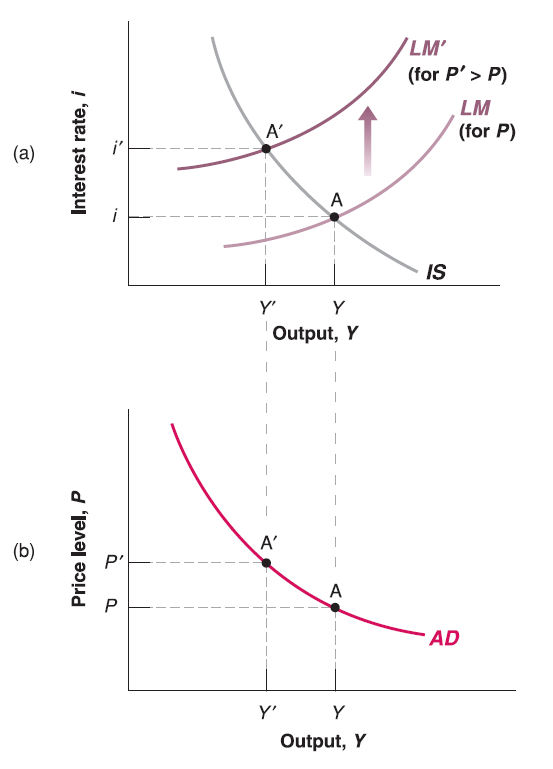
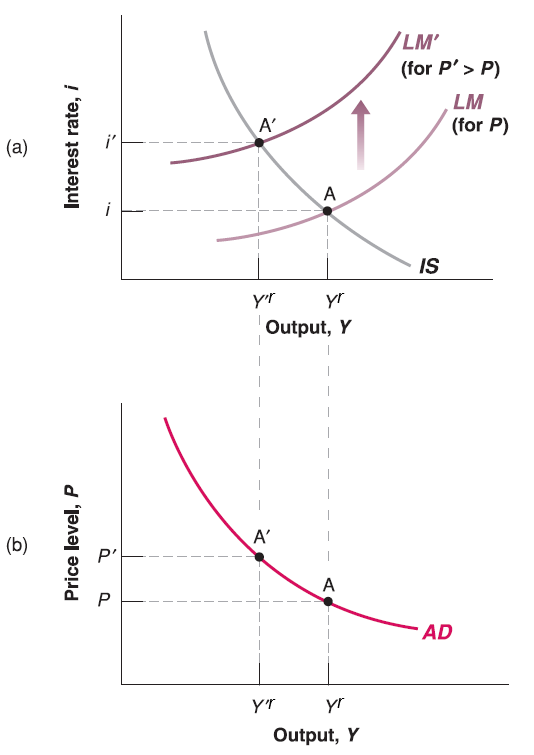
lecture12

diff --git a/lecture12.html b/lecture12.html
@@ -7,7 +7,7 @@
   <meta http-equiv="Content-Style-Type" content="text/css" />
   <meta name="generator" content="pandoc" />
   <meta name="author" content="Mingze Huang" />
-  <meta name="date" content="2021-07-22" />
+  <meta name="date" content="2021-07-23" />
   <title>Lecture 12: Aggregate Demand</title>
   <style type="text/css">
     code{white-space: pre-wrap;}
@@ -28,20 +28,70 @@
   <p class="author">
 Mingze Huang
   </p>
-  <p class="date">2021-07-22</p>
+  <p class="date">2021-07-23</p>
 </div>
 <div id="aggregate-demand" class="slide section level2">
 <h1>Aggregate Demand</h1>
+<p>Recall the policy change effect in IS-LM model, the framework mostly focus on demand side analysis. It enlightens us that we may derive some form of Aggregate Demand (AD) curve from IS-LM model:</p>
 <p><span class="math display">\[
 \begin{cases}
-(1 - c_{1})Y^{r} = c_{0}-c_{1}T+I(i)+G \\
-\frac{M}{P}=Y^{r}\cdot L(i)
+(1 - c_{1})Y^{r} = c_{0}-c_{1}T+I(i)+G &amp; \text{IS relation}\\
+\frac{M}{P}=Y^{r}\cdot L(i) &amp; \text{LM relation}
 \end{cases}
-\]</span></p>
+\]</span> Since we’ve already got Aggregate Supply (AS) curve on price <span class="math inline">\(P\)</span> and output <span class="math inline">\(Y^{r}\)</span>. Now our goal is to make an Aggregate Demand (AD) curve on price <span class="math inline">\(P\)</span> and output <span class="math inline">\(Y^{r}\)</span> to put on the graph.</p>
+<ul>
+<li><p>In IS-LM model, we assume price level <span class="math inline">\(P\)</span> is given and unchanged in the short run. Here we can simply relax our assumption to endogenize price <span class="math inline">\(P\)</span> (e.g. price <span class="math inline">\(P\)</span> determined inside the model).</p></li>
+<li><p>Output <span class="math inline">\(Y^{r}\)</span> has already there as an endogenous variable (determined inside the model), which is good.</p></li>
+<li><p>There is another endogenous variable: interest rate <span class="math inline">\(i\)</span>, we need to find some way to substitute it away!</p></li>
+</ul>
 </div>
 <div id="aggregate-demand-1" class="slide section level2">
 <h1>Aggregate Demand</h1>
+<p>(<em>Not required</em>) One way to git rid of <span class="math inline">\(i\)</span> is to do hardcore mathematical substitution: Rearrange IS relation: <span class="math display">\[
+I(i) = (1 - c_{1})Y^{r}+c_{1}T-c_{0}-G
+\]</span> Solving <span class="math inline">\(i\)</span> by taking inverse function of <span class="math inline">\(I(\cdot)\)</span>: <span class="math display">\[
+i = I^{-1}((1 - c_{1})Y^{r}+c_{1}T-c_{0}-G)
+\]</span> Plug it into LM relation: <span class="math display">\[
+\frac{M}{P}=Y^{r}\cdot L(I^{-1}((1 - c_{1})Y^{r}+c_{1}T-c_{0}-G))
+\]</span></p>
+<ul>
+<li><p>The higher the <span class="math inline">\(Y^{r}\)</span>, the higher the <span class="math inline">\((1 - c_{1})Y^{r}+c_{1}T-c_{0}-G\)</span> since <span class="math inline">\(1 - c_{1}&gt;0\)</span> (marginal propensity to consume <span class="math inline">\(c_{1}&lt;1\)</span>).</p></li>
+<li><p>Since <span class="math inline">\(I(\cdot)\)</span> is decreasing function, its inverse function <span class="math inline">\(I^{-1}(\cdot)\)</span> is decreasing function too. The higher the <span class="math inline">\((1 - c_{1})Y^{r}+c_{1}T-c_{0}-G\)</span>, the lower the <span class="math inline">\(I^{-1}((1 - c_{1})Y^{r}+c_{1}T-c_{0}-G)\)</span>.</p></li>
+<li><p>Since <span class="math inline">\(L(\cdot)\)</span> is decreasing function, the lower the <span class="math inline">\(I^{-1}((1 - c_{1})Y^{r}+c_{1}T-c_{0}-G)\)</span>, the higher the <span class="math inline">\(L(I^{-1}((1 - c_{1})Y^{r}+c_{1}T-c_{0}-G))\)</span>.</p></li>
+</ul>
+</div>
+<div id="aggregate-demand-2" class="slide section level2">
+<h1>Aggregate Demand</h1>
+<p>In summary, the higher <span class="math inline">\(Y^{r}\)</span>, the higher the right hand side of equation since both <span class="math inline">\(Y^{r}\)</span> and <span class="math inline">\(L(I^{-1}((1 - c_{1})Y^{r}+c_{1}T-c_{0}-G))\)</span> go higher. To hold the equality, price <span class="math inline">\(P\)</span> should be lower since nominal money supply <span class="math inline">\(M\)</span> is given.</p>
+<ul>
+<li>In short, the higher output <span class="math inline">\(Y^{r}\)</span>, the lower price level <span class="math inline">\(P\)</span> (downward-sloping curve for the relation between price <span class="math inline">\(P\)</span> and output <span class="math inline">\(Y^{r}\)</span>)! Looks nice and similar to the shape of demand curve in Microeconomics! <a href="bingo.gif">BINGO!!!</a></li>
+</ul>
+<p>Another way to derive the Aggregate Demand (AD) curve is more intuitive:</p>
+<ul>
+<li><p>Plot IS-LM model.</p></li>
+<li><p>Change the price level <span class="math inline">\(P\)</span>. Note that in the graph of IS-LM model, the vertical axis is (endogenous variable) interest rate <span class="math inline">\(i\)</span>, not price <span class="math inline">\(P\)</span>! Price <span class="math inline">\(P\)</span> is still exogenous variable here. So the change of price level <span class="math inline">\(P\)</span> should shift LM curve!</p></li>
+<li><p>See what’s happening on output <span class="math inline">\(Y^{r}\)</span>, this is the way to map the relationship of price <span class="math inline">\(P\)</span> and output <span class="math inline">\(Y^{r}\)</span> on a graph with vertical axis <span class="math inline">\(P\)</span> and horizontal axis <span class="math inline">\(Y^{r}\)</span>.</p></li>
+</ul>
+<p>This curve called <strong>Aggregate Demand</strong> (AD) curve since it comes from demand side ajustment in IS-LM model.</p>
+</div>
+<div id="aggregate-demand-3" class="slide section level2">
+<h1>Aggregate Demand</h1>
 <p><img src="AD.png" /></p>
+</div>
+<div id="aggregate-demand-4" class="slide section level2">
+<h1>Aggregate Demand</h1>
+<ul>
+<li>The higher the price level (from <span class="math inline">\(P\)</span> to <span class="math inline">\(P&#39;\)</span>), the lower the output (from <span class="math inline">\(Y^{r}\)</span> to <span class="math inline">\(Y&#39;^{r}\)</span>).</li>
+</ul>
+<p>The intuition goes into IS-LM model:</p>
+<ul>
+<li><p>According to LM relation: <span class="math inline">\(M=P\cdot Y^{r}\cdot L(i)\)</span>. Given nominal money supply <span class="math inline">\(M\)</span> unchanged, the higher the price level <span class="math inline">\(P\)</span>, the lower the amount of goods consumers can afford. So that demand of goods output <span class="math inline">\(Y^{r}\)</span> goes down (income <span class="math inline">\(Y^{r}\)</span> goes down). Also, consumers have less extra money to buy bonds, so bond issuers have to increase interest rate <span class="math inline">\(i\)</span> to attract buyers.</p></li>
+<li><p>In short, the higher price level <span class="math inline">\(P\)</span>, the lower output (income <span class="math inline">\(Y^{r}\)</span>).</p></li>
+</ul>
+</div>
+<div id="aggregate-demand-5" class="slide section level2">
+<h1>Aggregate Demand</h1>
+<p><img src="gt.png" /></p>
 </div>
 
   <!-- dynamically load mathjax for compatibility with self-contained -->

diff --git a/lecture11.html b/lecture11.html
@@ -7,7 +7,7 @@
   <meta http-equiv="Content-Style-Type" content="text/css" />
   <meta name="generator" content="pandoc" />
   <meta name="author" content="Mingze Huang" />
-  <meta name="date" content="2021-07-22" />
+  <meta name="date" content="2021-07-23" />
   <title>Lecture 11: Aggregate Supply</title>
   <style type="text/css">
     code{white-space: pre-wrap;}
@@ -28,7 +28,7 @@
   <p class="author">
 Mingze Huang
   </p>
-  <p class="date">2021-07-22</p>
+  <p class="date">2021-07-23</p>
 </div>
 <div id="inflation-and-expected-price-level" class="slide section level2">
 <h1>Inflation and Expected Price Level</h1>
@@ -115,7 +115,7 @@ P\equiv P^{e}(1+\mu)F(1-\frac{Y^{r}}{L},z)
 <li><p>Workers’ expectation is correct and price level won’t change in the future (e.g. <span class="math inline">\(P^{e}=P&#39;=P\)</span>).</p></li>
 <li><p>Equilibrium unemployment rate is natural rate of unemployment <span class="math inline">\(u_{n}\)</span>, so that output on natural output level <span class="math inline">\(Y^{r}=Y_{n}^{r}\)</span>.</p></li>
 </ul>
-<p>The Aggregate Supply (AS) curve goes through labor market equilibrium point where <span class="math inline">\(P=P^{e}\)</span> and <span class="math inline">\(Y_{n}^{r}=Y_{n}\)</span>.</p>
+<p>The Aggregate Supply (AS) curve goes through labor market equilibrium point where <span class="math inline">\(P=P^{e}\)</span> and <span class="math inline">\(Y^{r}=Y_{n}^{r}\)</span>.</p>
 </div>
 <div id="aggregate-supply-1" class="slide section level2">
 <h1>Aggregate Supply</h1>

diff --git a/lecture6.html b/lecture6.html
@@ -7,7 +7,7 @@
   <meta http-equiv="Content-Style-Type" content="text/css" />
   <meta name="generator" content="pandoc" />
   <meta name="author" content="Mingze Huang" />
-  <meta name="date" content="2021-07-22" />
+  <meta name="date" content="2021-07-23" />
   <title>Lecture 6: IS-LM Model</title>
   <style type="text/css">
     code{white-space: pre-wrap;}
@@ -28,7 +28,7 @@
   <p class="author">
 Mingze Huang
   </p>
-  <p class="date">2021-07-22</p>
+  <p class="date">2021-07-23</p>
 </div>
 <div id="exogenous-and-endogenous-variables-in-is-lm-model" class="slide section level2">
 <h1>Exogenous and Endogenous variables in IS-LM Model</h1>

diff --git a/lecture2.html b/lecture2.html
@@ -7,7 +7,7 @@
   <meta http-equiv="Content-Style-Type" content="text/css" />
   <meta name="generator" content="pandoc" />
   <meta name="author" content="Mingze Huang" />
-  <meta name="date" content="2021-07-22" />
+  <meta name="date" content="2021-07-23" />
   <title>Lecture 2: Introduction (continued)</title>
   <style type="text/css">
     code{white-space: pre-wrap;}
@@ -28,7 +28,7 @@
   <p class="author">
 Mingze Huang
   </p>
-  <p class="date">2021-07-22</p>
+  <p class="date">2021-07-23</p>
 </div>
 <div id="inflation-measured-by-inflation-rate" class="slide section level2">
 <h1>Inflation (Measured by Inflation Rate)</h1>

diff --git a/lecture3.html b/lecture3.html
@@ -7,7 +7,7 @@
   <meta http-equiv="Content-Style-Type" content="text/css" />
   <meta name="generator" content="pandoc" />
   <meta name="author" content="Mingze Huang" />
-  <meta name="date" content="2021-07-22" />
+  <meta name="date" content="2021-07-23" />
   <title>Lecture 3: Introduction (continued)</title>
   <style type="text/css">
     code{white-space: pre-wrap;}
@@ -28,7 +28,7 @@
   <p class="author">
 Mingze Huang
   </p>
-  <p class="date">2021-07-22</p>
+  <p class="date">2021-07-23</p>
 </div>
 <div id="chain-rule-in-cpi-not-chained-cpi" class="slide section level2">
 <h1>Chain rule in CPI (Not Chained CPI)</h1>

diff --git a/lecture1.html b/lecture1.html
@@ -7,7 +7,7 @@
   <meta http-equiv="Content-Style-Type" content="text/css" />
   <meta name="generator" content="pandoc" />
   <meta name="author" content="Mingze Huang" />
-  <meta name="date" content="2021-07-22" />
+  <meta name="date" content="2021-07-23" />
   <title>Lecture 1: Introduction</title>
   <style type="text/css">
     code{white-space: pre-wrap;}
@@ -28,7 +28,7 @@
   <p class="author">
 Mingze Huang
   </p>
-  <p class="date">2021-07-22</p>
+  <p class="date">2021-07-23</p>
 </div>
 <div id="pandemic-relief-package-and-gig-workers" class="slide section level2">
 <h1>Pandemic, Relief Package and Gig Workers</h1>

diff --git a/lecture5.html b/lecture5.html
@@ -7,7 +7,7 @@
   <meta http-equiv="Content-Style-Type" content="text/css" />
   <meta name="generator" content="pandoc" />
   <meta name="author" content="Mingze Huang" />
-  <meta name="date" content="2021-07-22" />
+  <meta name="date" content="2021-07-23" />
   <title>Lecture 5: Goods Market and Financial Market (continued)</title>
   <style type="text/css">
     code{white-space: pre-wrap;}
@@ -28,7 +28,7 @@
   <p class="author">
 Mingze Huang
   </p>
-  <p class="date">2021-07-22</p>
+  <p class="date">2021-07-23</p>
 </div>
 <div id="the-demand-for-money" class="slide section level2">
 <h1>The demand for money</h1>

diff --git a/lecture4.html b/lecture4.html
@@ -7,7 +7,7 @@
   <meta http-equiv="Content-Style-Type" content="text/css" />
   <meta name="generator" content="pandoc" />
   <meta name="author" content="Mingze Huang" />
-  <meta name="date" content="2021-07-22" />
+  <meta name="date" content="2021-07-23" />
   <title>Lecture 4: Goods Market and Financial Market</title>
   <style type="text/css">
     code{white-space: pre-wrap;}
@@ -28,7 +28,7 @@
   <p class="author">
 Mingze Huang
   </p>
-  <p class="date">2021-07-22</p>
+  <p class="date">2021-07-23</p>
 </div>
 <div id="the-composition-of-gdp-y" class="slide section level2">
 <h1>The Composition of GDP (Y)</h1>

diff --git a/lecture10.html b/lecture10.html
@@ -7,7 +7,7 @@
   <meta http-equiv="Content-Style-Type" content="text/css" />
   <meta name="generator" content="pandoc" />
   <meta name="author" content="Mingze Huang" />
-  <meta name="date" content="2021-07-22" />
+  <meta name="date" content="2021-07-23" />
   <title>Lecture 10: Labor Market (continued)</title>
   <style type="text/css">
     code{white-space: pre-wrap;}
@@ -28,7 +28,7 @@
   <p class="author">
 Mingze Huang
   </p>
-  <p class="date">2021-07-22</p>
+  <p class="date">2021-07-23</p>
 </div>
 <div id="labor-market-equilibrium" class="slide section level2">
 <h1>Labor Market Equilibrium</h1>

diff --git a/lecture7.html b/lecture7.html
@@ -7,7 +7,7 @@
   <meta http-equiv="Content-Style-Type" content="text/css" />
   <meta name="generator" content="pandoc" />
   <meta name="author" content="Mingze Huang" />
-  <meta name="date" content="2021-07-22" />
+  <meta name="date" content="2021-07-23" />
   <title>Lecture 7: Monetary Policy Tools</title>
   <style type="text/css">
     code{white-space: pre-wrap;}
@@ -28,7 +28,7 @@
   <p class="author">
 Mingze Huang
   </p>
-  <p class="date">2021-07-22</p>
+  <p class="date">2021-07-23</p>
 </div>
 <div id="monetary-policy-tools" class="slide section level2">
 <h1>Monetary Policy Tools</h1>

diff --git a/lecture9.html b/lecture9.html
@@ -7,7 +7,7 @@
   <meta http-equiv="Content-Style-Type" content="text/css" />
   <meta name="generator" content="pandoc" />
   <meta name="author" content="Mingze Huang" />
-  <meta name="date" content="2021-07-22" />
+  <meta name="date" content="2021-07-23" />
   <title>Lecture 9: Labor Market (continued)</title>
   <style type="text/css">
     code{white-space: pre-wrap;}
@@ -28,7 +28,7 @@
   <p class="author">
 Mingze Huang
   </p>
-  <p class="date">2021-07-22</p>
+  <p class="date">2021-07-23</p>
 </div>
 <div id="wages-determination" class="slide section level2">
 <h1>Wages Determination</h1>

diff --git a/lecture8.html b/lecture8.html
@@ -7,7 +7,7 @@
   <meta http-equiv="Content-Style-Type" content="text/css" />
   <meta name="generator" content="pandoc" />
   <meta name="author" content="Mingze Huang" />
-  <meta name="date" content="2021-07-22" />
+  <meta name="date" content="2021-07-23" />
   <title>Lecture 8: Labor Market</title>
   <style type="text/css">
     code{white-space: pre-wrap;}
@@ -28,7 +28,7 @@
   <p class="author">
 Mingze Huang
   </p>
-  <p class="date">2021-07-22</p>
+  <p class="date">2021-07-23</p>
 </div>
 <div id="labor-market" class="slide section level2">
 <h1>Labor Market</h1>
